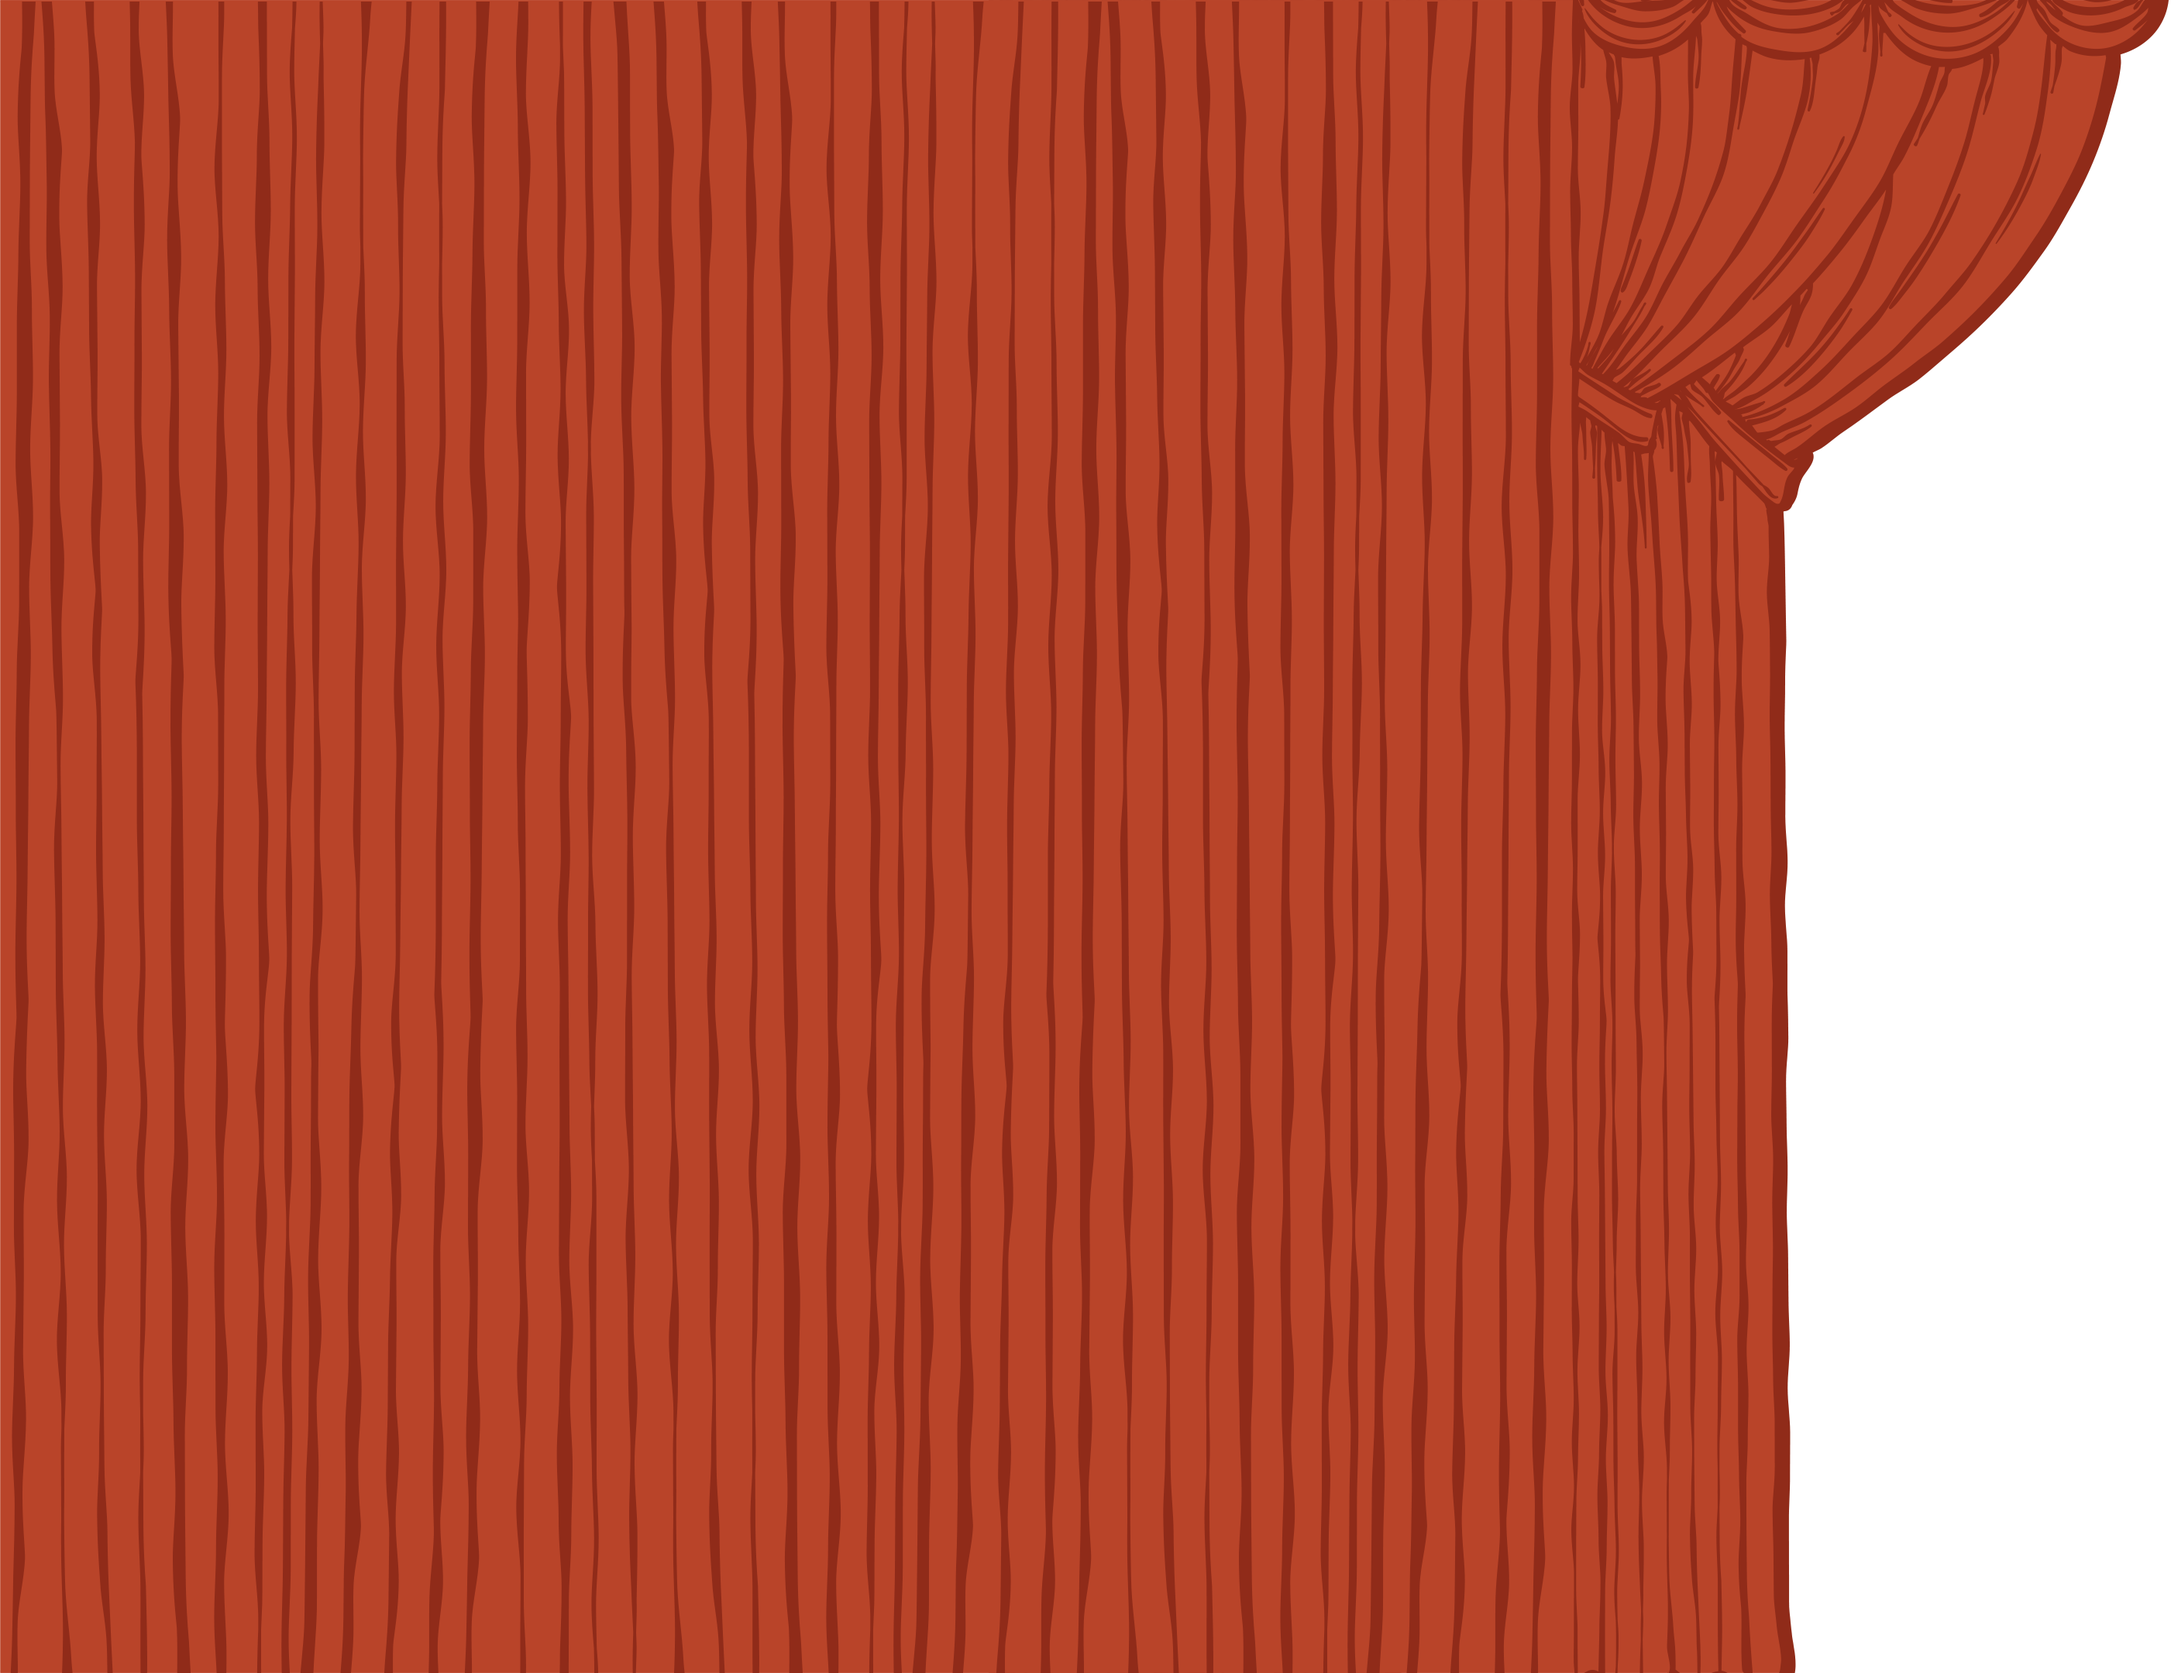
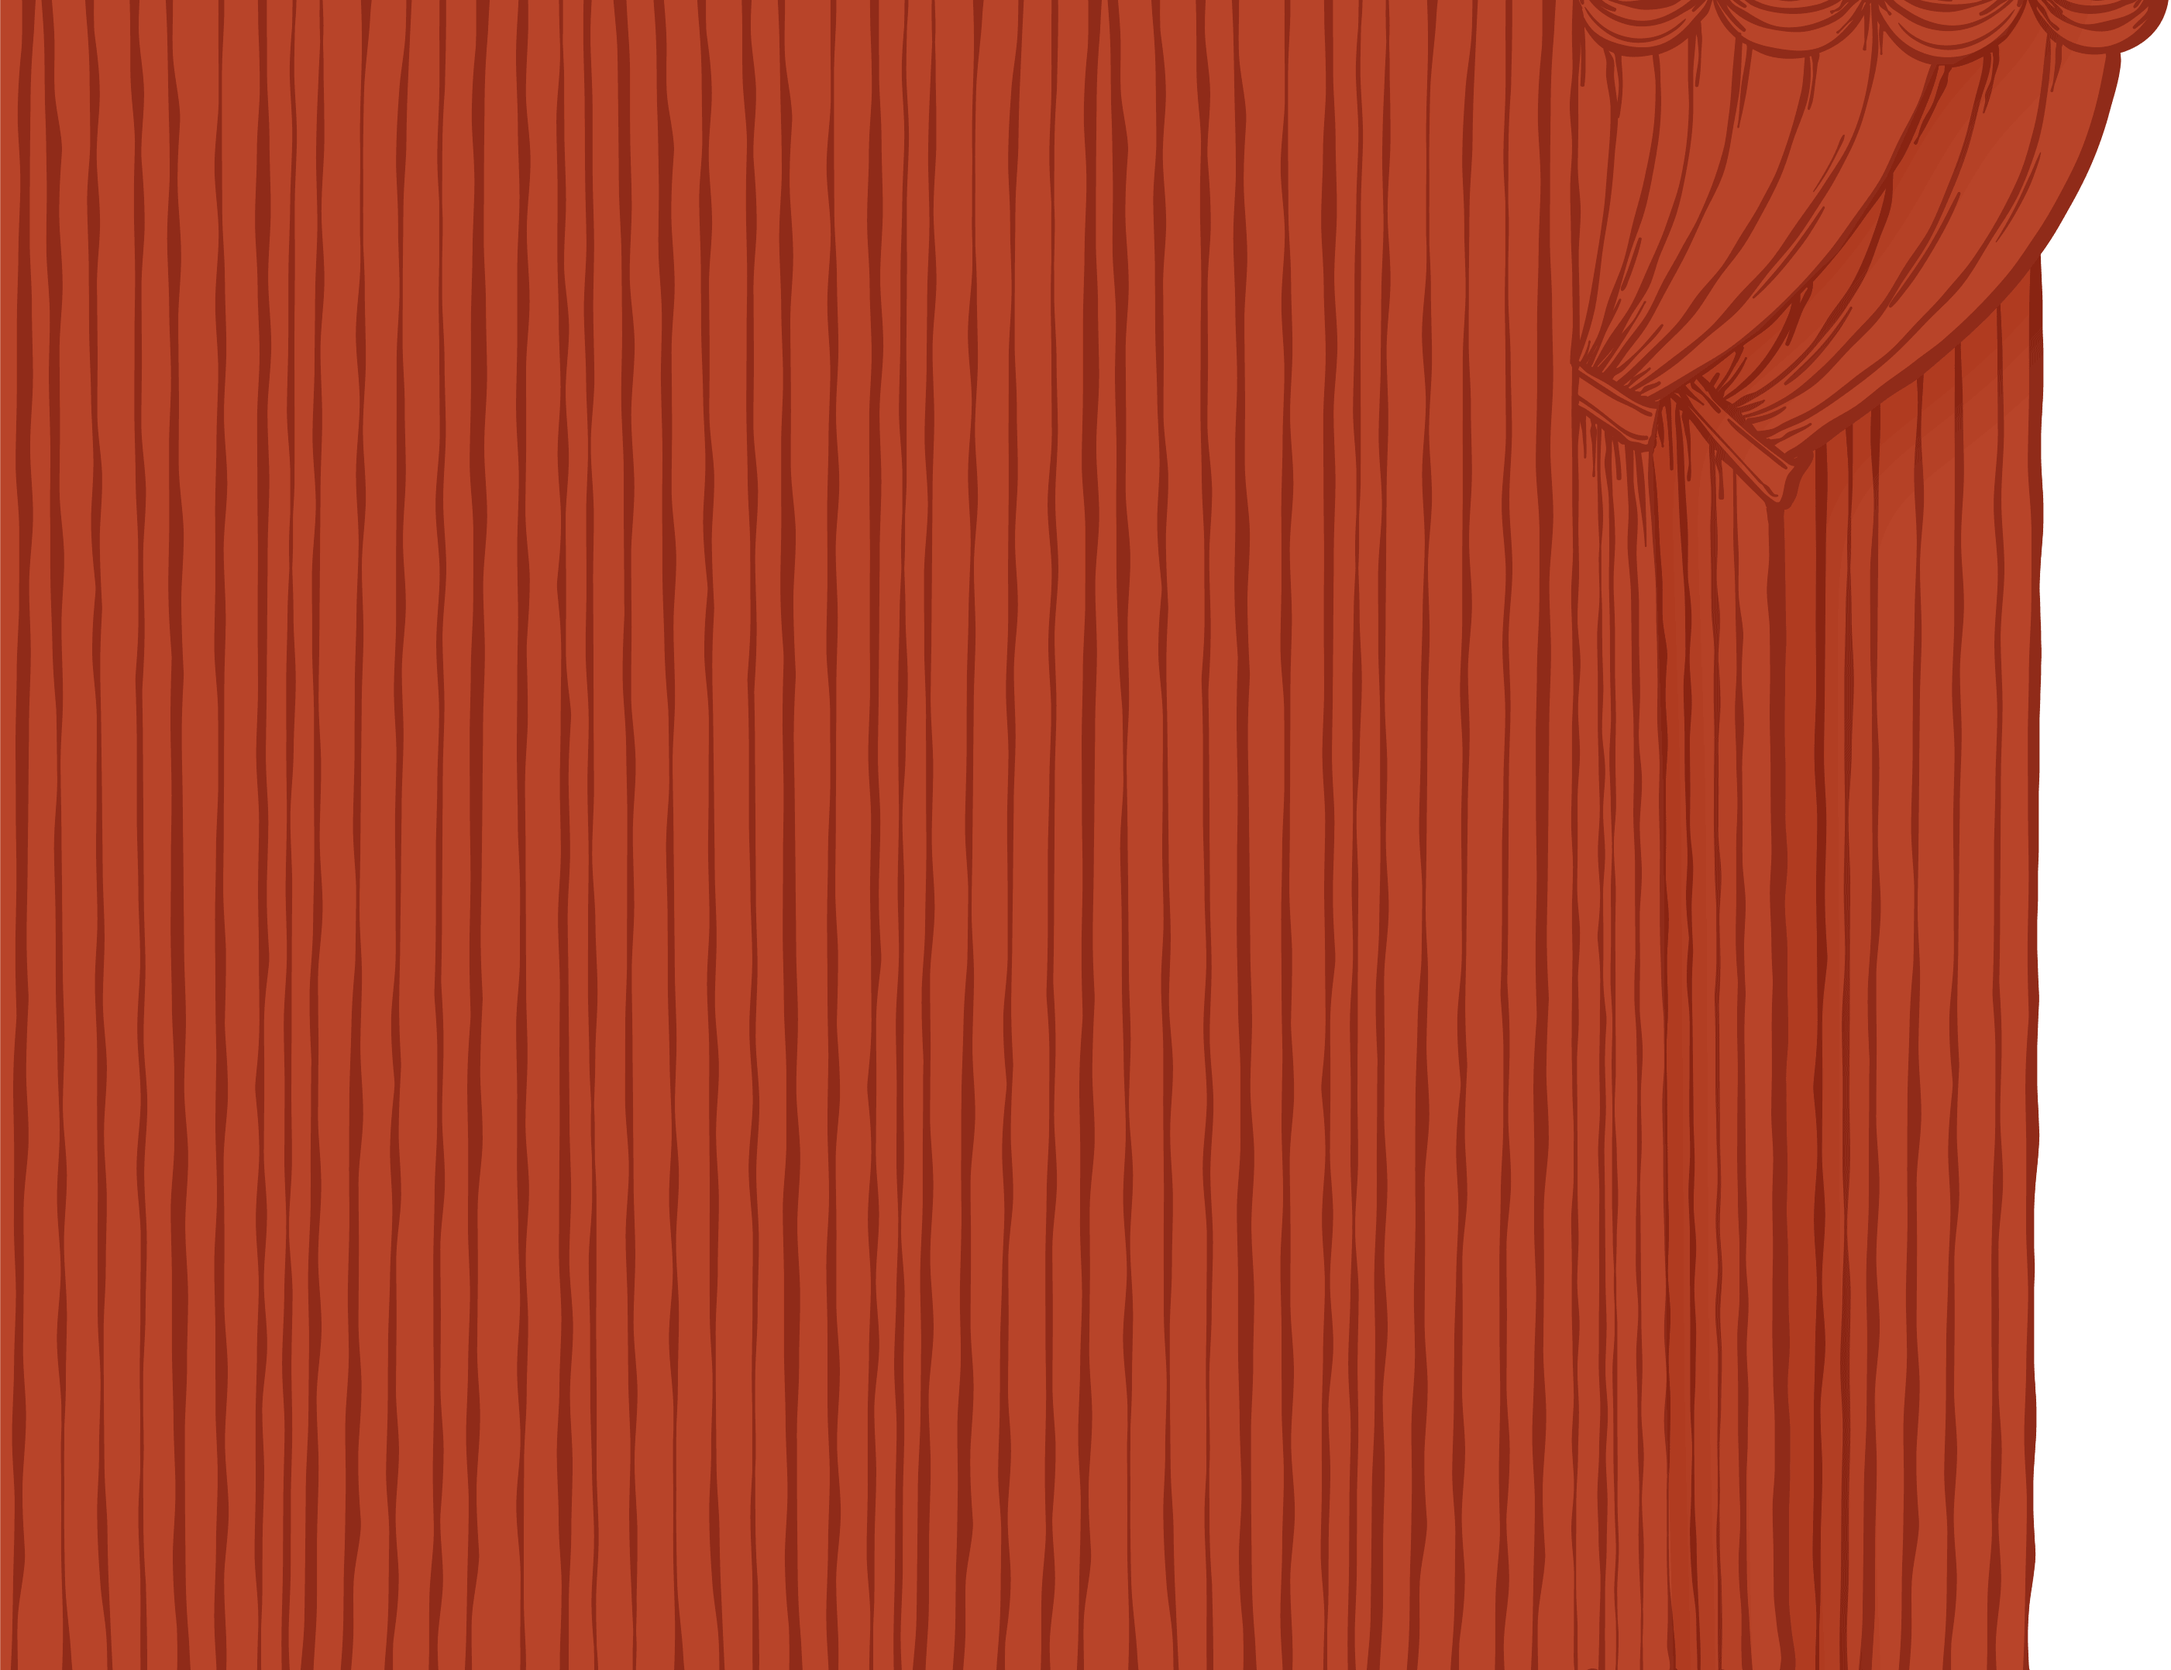
more stuff to make showable

Changed region(s): [[0.8073, 0.1554, 0.9625, 1.0], [0.7452, 0.0, 0.9936, 0.0311]]

diff --git a/src/components/Navbar.js b/src/components/Navbar.js
@@ -33,28 +33,29 @@ const Navbar = () => {
                   className={"Navbar__menu" + (active ? " isActive" : "")} 
                   onClick={event => event.stopPropagation()}
                 >
-                  <Link onClick={() => setActive(false)} to="/cities/intro">Intro</Link>
-                  <Link onClick={() => setActive(false)} to="/cities/paris">Paris</Link>
+                  <Link className="Navbar__link" onClick={() => setActive(false)} to="/cities/intro">Intro</Link>
+                  <Link className="Navbar__link" onClick={() => setActive(false)} to="/cities/paris">Paris</Link>
                   <hr />
-                  <Link onClick={() => setActive(false)} to="/now">Now</Link>
-                  <Link onClick={() => setActive(false)} to="/about">About</Link>
-                  <Icon use="youtube" />
-                  <Icon use="facebook" />
-                  <Icon use="twitter" />
-                  <Icon use="instagram" />
+                  <Link className="Navbar__link" onClick={() => setActive(false)} to="/now">Now</Link>
+                  <Link className="Navbar__link" onClick={() => setActive(false)} to="/about">About</Link>
+                  <hr />
+                  <a className="Navbar__link" onClick={() => setActive(false)} href=""><Icon use="youtube" />&ensp;YouTube</a>
+                  <a className="Navbar__link" onClick={() => setActive(false)} href=""><Icon use="facebook" />&ensp;Facebook</a>
+                  <a className="Navbar__link" onClick={() => setActive(false)} href=""><Icon use="twitter" />&ensp;Twitter</a>
+                  <a className="Navbar__link" onClick={() => setActive(false)} href=""><Icon use="instagram" />&ensp;Instagram</a>
                 </div>
               </div>
             </div>
           ) : (
             <React.Fragment>
-              <div><Link to="/cities/intro">Intro</Link>&ensp;|&ensp;<Link to="/cities/paris">Paris</Link></div>
+              <div><Link className="Navbar__link Navbar__link--offset" to="/cities/intro">Intro</Link>&ensp;|&ensp;<Link className="Navbar__link Navbar__link--offset" to="/cities/paris">Paris</Link></div>
               <div className="Navbar__endLinks">
                 <Icon onClick={muted.toggleMuted} use={muted.muted ? "volumeOff" : "volumeHigh"} />
-                &emsp;<Link to="/now">Now</Link>&ensp;|&ensp;<Link to="/about">About</Link>&emsp;
-                <Icon use="youtube" />
-                <Icon use="facebook" />
-                <Icon use="twitter" />
-                <Icon use="instagram" />
+                &emsp;<Link className="Navbar__link" to="/now">Now</Link>&ensp;|&ensp;<Link className="Navbar__link" to="/about">About</Link>&emsp;
+                <a className="Navbar__link" href=""><Icon use="youtube" /></a>
+                <a className="Navbar__link" href=""><Icon use="facebook" /></a>
+                <a className="Navbar__link" href=""><Icon use="twitter" /></a>
+                <a className="Navbar__link" href=""><Icon use="instagram" /></a>
               </div>
             </React.Fragment>
           )}

diff --git a/src/components/global.scss b/src/components/global.scss
@@ -128,13 +128,13 @@ body {
     transform: translateX(100%);
     img{
       transform: scaleX(-1);
-      left: -25vh;
+      left: -11vh;
     }
   }
   &__curtain-left{
     transform: translateX(-100%);
     img{
-      right: -25vh;
+      right: -11vh;
     }
   }
 
@@ -155,7 +155,7 @@ body {
 .Navbar{
   height: 40px;
   // background-color: #be553d;
-  line-height: 45px;
+  // line-height: 45px;
   position: fixed;
   top: 0;
   left: 0;
@@ -177,15 +177,23 @@ body {
   &__logo{
     img{
       height: 40px;
+      margin: 0;
     }
-    margin-right: 30px;
+    @media screen and (min-width: 1000px) {
+      margin-right: 30px;
+    }
   }
 
-  a{
+  &__link{
+    height: 40px;
+    &--offset{ padding-top: 5px; }
     user-select: all;
     color: #fff;
     text-transform: uppercase;
     text-decoration: none;
+    display: inline-flex;
+    justify-content: center;
+    align-items: center;
   }
 
   svg{
@@ -203,6 +211,9 @@ body {
   &__hamburger{
     height: 40px;
     width: 40px;
+    display: inline-flex;
+    justify-content: center;
+    align-items: center;
   }
 
   &__menuWrapper{
@@ -217,7 +228,7 @@ body {
   }
   &__menu{
     @include transition--slide-left();
-    @include whiteNoise(0.2);
+    @include whiteNoise(0.05);
     position: absolute;
     top:0;
     right:0;
@@ -227,6 +238,12 @@ body {
     display: flex;
     flex-direction: column;
     background: #be553d;
+    justify-content: space-around;
+
+    hr{
+      margin: 10px 0;
+      background: #fff;
+    }
   }
 }
 
